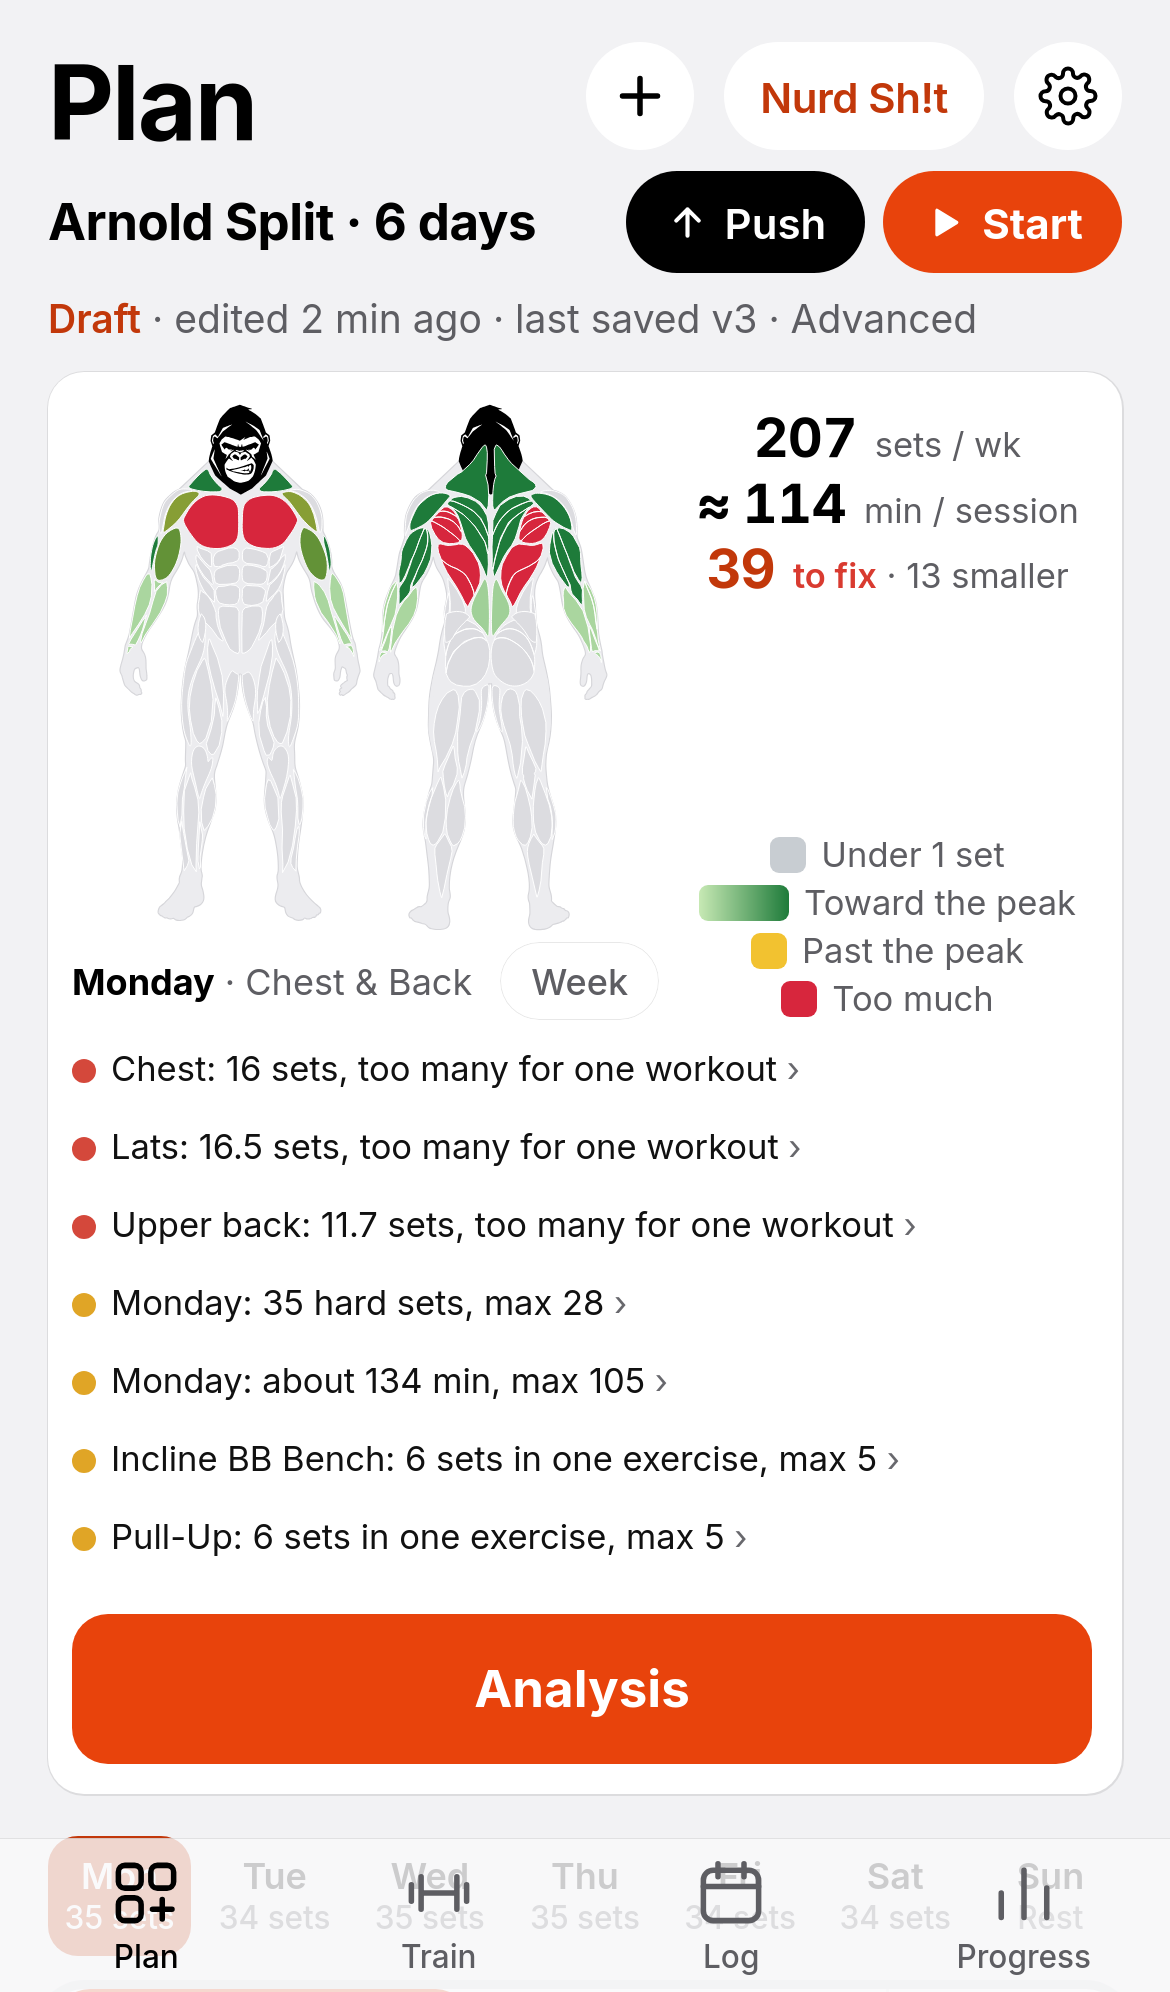
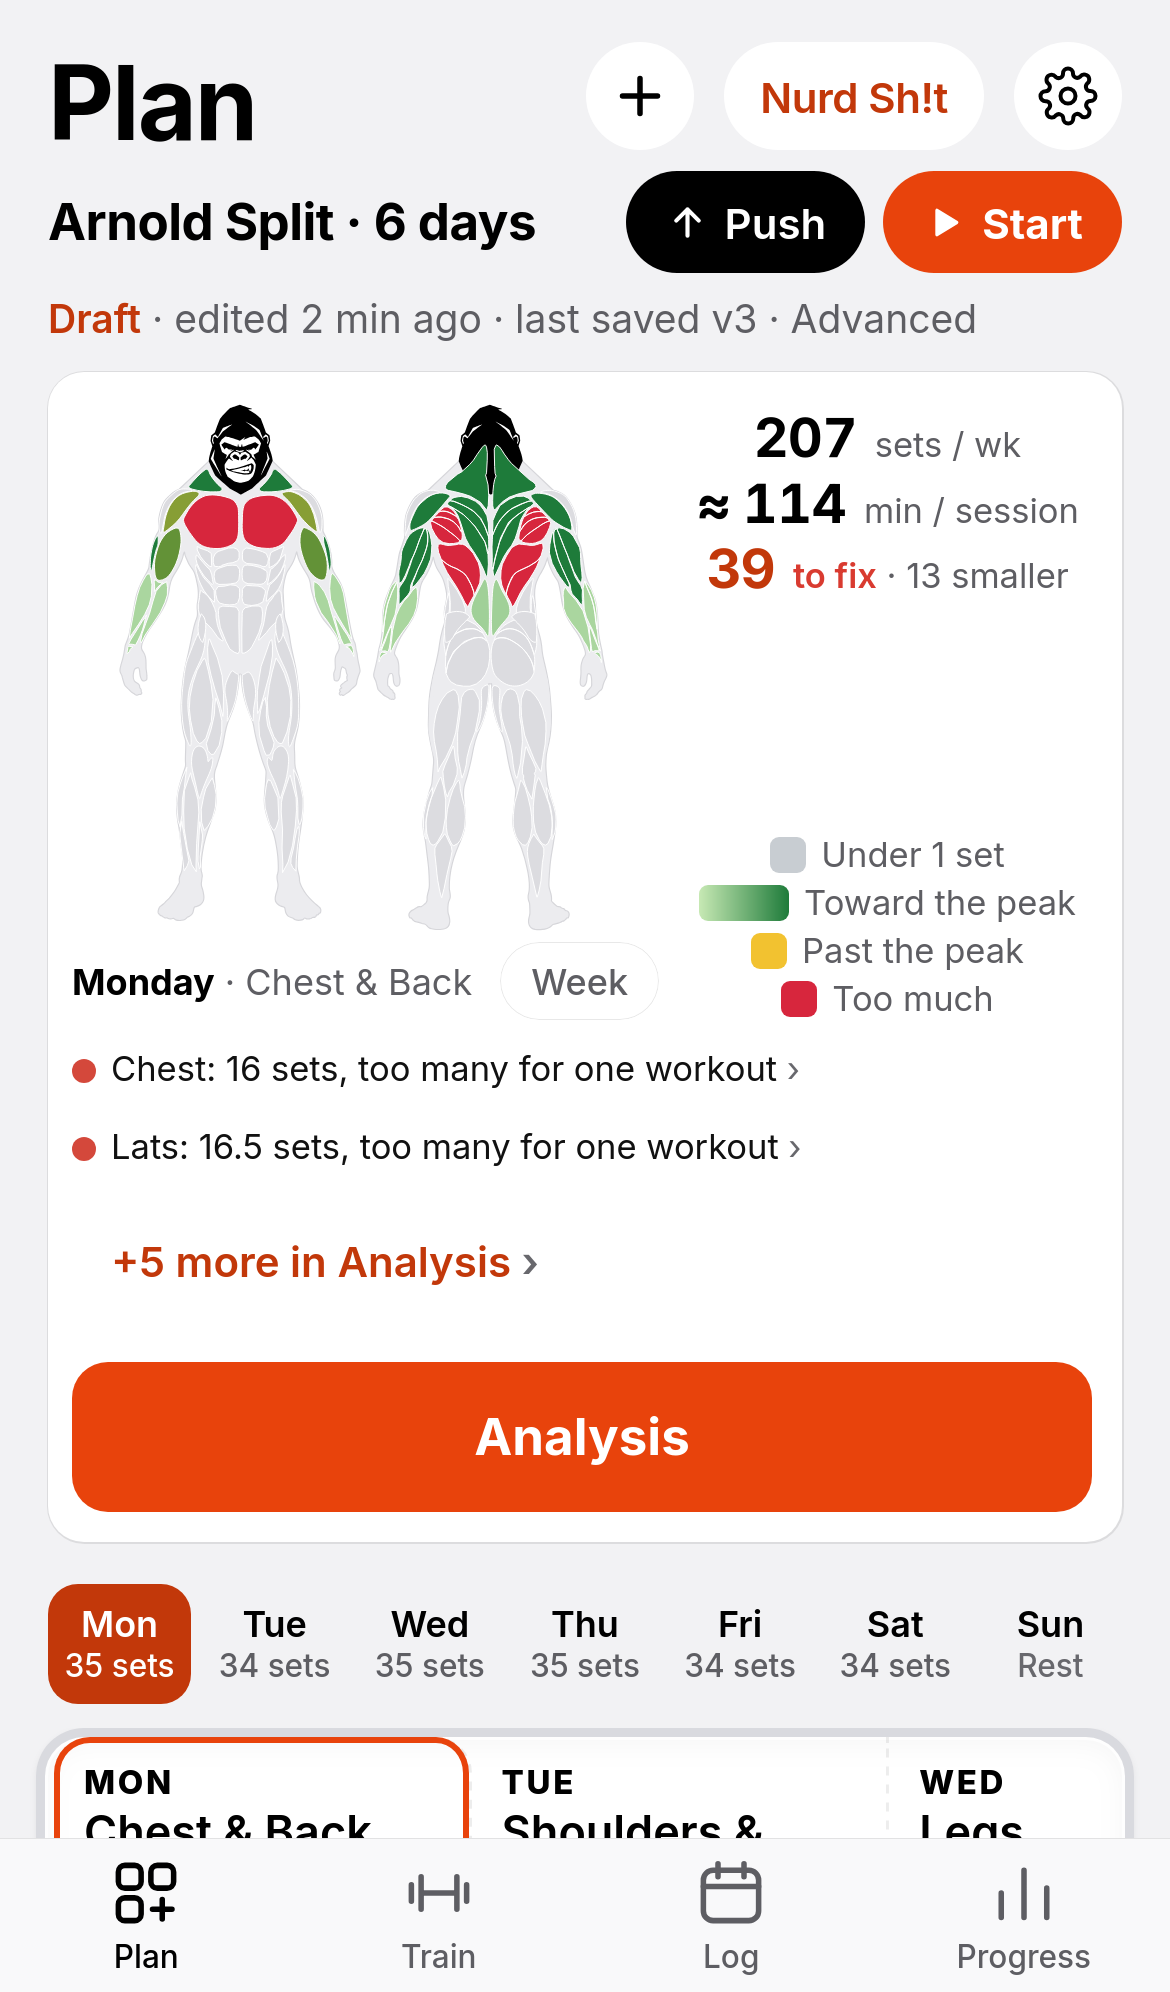
storyboard vol15 polish 2: Plan shows at most 2 significant flags per day / week, then '+N more in Analysis'; opaque tab and nav bars; Plan header stops sticking when too tall, so the day strip never sits under the tab bar; day header meta wraps

diff --git a/storyboard/board.js b/storyboard/board.js
@@ -77,7 +77,11 @@ function stripHtml(st){const {A,C,d}=st,avg=avgMins(d),fail=C.total-C.pass;
    <span class="ast"><b class="num" data-s="min">${d.length?'≈ '+avg:'–'}</b><small>min / session</small></span>
    ${openSlots()?`<span class="ast chk pend"><b class="num" data-s="checks">–</b><small>Fill slots to check</small></span>`:(()=>{const F=flags14(),n=F.filter(f=>f.sev>=2).length;return `<span class="ast chk ${n?'bad':'zero'}"><b class="num" data-s="checks">${n}</b><small>${n?`<em class="chkbad">to fix</em>`:'to fix'}${F.length-n?` · ${F.length-n} smaller`:''}</small></span>`})()}`}
 function dayMeta(day){const n=sum(day.tiles.map(t=>t.sets));return day.tiles.length?`${n} sets · ≈ ${MINS(day.tiles)} min`:''}
-function paintStats(days){days=days||B.days;const st=stats(days);const mp=$('#bmap');if(mp)mp.innerHTML=mapHtml(st,days);const lg=$('#bmleg');if(lg)lg.innerHTML=MLEG||'';const fw=$('#bmflw');if(fw)fw.innerHTML=MFL;const s=$('#astrip');if(s){s.innerHTML=stripHtml(st);}
+// vol15: the Plan header (map card + day strip) is sticky only while it fits comfortably above the tab bar; when it is taller
+// (large text, a day's flags) it scrolls with the page, so the day strip never sits under the tab bar.
+function fitStick(){const st=$('.bstick'),sc=st&&st.closest('.scroller');if(!st||!sc)return;const tb=$('.tabs'),th=tb&&getComputedStyle(tb).display!=='none'?tb.getBoundingClientRect().height:0;
+  const avail=sc.clientHeight-th;st.classList.toggle('nostick',st.offsetHeight>avail*0.6)}
+function paintStats(days){days=days||B.days;const st=stats(days);const mp=$('#bmap');if(mp)mp.innerHTML=mapHtml(st,days);const lg=$('#bmleg');if(lg)lg.innerHTML=MLEG||'';const fw=$('#bmflw');if(fw)fw.innerHTML=MFL;{const st=$('.bstick');if(st&&!st._ro&&window.ResizeObserver){st._ro=new ResizeObserver(()=>fitStick());st._ro.observe(st)}fitStick()}const s=$('#astrip');if(s){s.innerHTML=stripHtml(st);}
   days.forEach((d,i)=>{const n=sum(d.tiles.map(t=>t.sets));const b=$(`#dstrip [data-jump="${i}"] .dn`);if(b){b.textContent=stripTxt(d);b.parentNode.classList.toggle('rd',isRest(d))}
     const h=$(`.col[data-day="${d.day}"] .cm`);if(h)h.textContent=dayMeta(d);const w=$(`.col[data-day="${d.day}"] .dmxw`);if(w)w.outerHTML=dmxHtml(d)});
   $$('.col').forEach((c,i)=>{const d=days[i];if(!d)return;c.classList.toggle('restday',isRest(d));const l=$('.cl',c);if(l)l.textContent=dayLabel(d)}); // preview days mid-drag
@@ -224,16 +228,19 @@ const flagLine=(f,full)=>`<button class="fl1 s${f.sev}${f.grey?' calm':''}" data
 const fwf=f=>`${f.whyT?`<p class="flwhy"><b>Why:</b> ${f.whyT}</p>`:''}${f.fixT||f.fixText?`<p class="flfx"><b>Fix:</b> ${[f.fixT,f.fixText].filter(Boolean).join(' ')}</p>`:''}`;
 const flagRow=f=>`<details class="fl14 s${f.sev}${f.grey?' calm':''}" data-id="${escA(f.id)}"><summary><span class="fdot" aria-hidden="true"></span><span class="flt">${ftxt(f,f.what||f.text)}</span></summary>${fwfS(f)}${f.fix?`<button class="btn xs accent" data-b="flfix" data-id="${escA(f.id)}">${f.fix.label}</button>`:''}</details>`;
 // Plan: under each day = gauges + at most 2 significant flags (severity >= 2)
-function dmxHtml(d){if(!d.tiles.length)return `<div class="dmxw" data-day="${d.day}"></div>`;const F=FG()?FG().significant(flags14(),'day',d.day,2):[],L=window.WFATIGUE?WFATIGUE.level(RD(),tiles0(d),B.level):null;
-  return `<div class="dmxw" data-day="${d.day}">${L?`<button class="wfl wfl-${L.id}" data-b="dayview" data-day="${d.day}" aria-label="${WDL[DAYS.indexOf(d.day)]}: ${L.label} fatigue. Show this day on the map"><span class="wfk">Fatigue:</span> <b>${L.label}</b></button>`:''}${F.map(f=>flagCard(f)).join('')}</div>`}
+// vol14 rule (restated vol15): Plan shows at most 2 significant flags per day / for the week (FLAGS14.significant ranking), then one '+N more in Analysis ›' line
+const sigOf=(scope,day)=>{const A=flags14().filter(f=>f.plan&&f.scope===scope&&(day==null||f.day===day));return {top:FG().significant(flags14(),scope,day,2),more:Math.max(0,A.length-2)}};
+const moreLine=n=>n>0?`<button class="flmore" data-b="analysis">+${n} more in Analysis<span class="chev" aria-hidden="true"> ›</span></button>`:'';
+function dmxHtml(d){if(!d.tiles.length)return `<div class="dmxw" data-day="${d.day}"></div>`;const SG=FG()?sigOf('day',d.day):{top:[],more:0},F=SG.top,L=window.WFATIGUE?WFATIGUE.level(RD(),tiles0(d),B.level):null;
+  return `<div class="dmxw" data-day="${d.day}">${L?`<button class="wfl wfl-${L.id}" data-b="dayview" data-day="${d.day}" aria-label="${WDL[DAYS.indexOf(d.day)]}: ${L.label} fatigue. Show this day on the map"><span class="wfk">Fatigue:</span> <b>${L.label}</b></button>`:''}${F.map(f=>flagCard(f)).join('')}${moreLine(SG.more)}</div>`}
 const sugBtns=()=>{const E=effPlan(),P=pushPlan();return `<div class="sug14"><button class="btn sm grey s14" data-b="mkeff"${E.ops.length?'':' disabled'}><span>${(SBT().make_more_efficient||{}).label||'Make it more efficient'}</span>${E.ops.length?`<small class="num">−${E.removed} set${E.removed===1?'':'s'}</small>`:'<small>nothing to trim</small>'}</button><button class="btn sm grey s14" data-b="mkpush"${P.ops.length?'':' disabled'}><span>${(SBT().push_for_max_growth||{}).label||'Push for max growth'}</span>${P.ops.length?`<small class="num">+${P.added} set${P.added===1?'':'s'}</small>`:'<small>at the limits</small>'}</button></div>`};
 // session limit as INFO (rules session_efficiency display_severity 'info', display_limits): the most one workout can usefully take
 function limInfo(){const R=((RD().rules||{}).rules||[]).find(r=>r.id==='session_efficiency')||{},L=(R.display_limits||{})[B.level];if(!L)return '';const g={};for(const [m,v] of Object.entries(L))(g[v]=g[v]||[]).push(MLB(m).toLowerCase());
   const ks=Object.keys(g).map(Number).sort((a,b)=>b-a),big=ks[0];return `<p class="foot lim14"><b>Info:</b> one workout can usefully take about ${big} hard sets for most muscles${ks.slice(1).map(k=>`, ${k} for ${g[k].join(', ')}`).join('')}. Push for max growth stops there.</p>`}
 // Plan: the week card (replaces the vol11-13 Impact card): at most 2 significant weekly flags + the two suggestion buttons
-function impHtml(){if(!FG())return '';const W=FG().significant(flags14(),'week',null,2);
+function impHtml(){if(!FG())return '';const SW=sigOf('week',null),W=SW.top;
   return `<div class="imph"><b>This week</b><span class="evl" data-ev="modeled">Modeled</span></div>
-   <div class="wk14">${W.length?W.map(f=>flagLine(f,1)).join(''):`<p class="sub">${(()=>{const n=flags14().filter(f=>f.scope==='day'&&f.sev>=2).length;return n?`Nothing big for the week as a whole. ${n} fix${n===1?' is':'es are'} under the days above.`:'Nothing significant this week.'})()}</p>`}</div>${sugBtns()}
+   <div class="wk14">${W.length?W.map(f=>flagLine(f,1)).join('')+moreLine(SW.more):`<p class="sub">${(()=>{const n=flags14().filter(f=>f.scope==='day'&&f.sev>=2).length;return n?`Nothing big for the week as a whole. ${n} fix${n===1?' is':'es are'} under the days above.`:'Nothing significant this week.'})()}</p>`}</div>${sugBtns()}
    <p class="foot wkfoot">Smaller items stay in <button class="lnk" data-b="analysis">Analysis ›</button></p>`}
 function paintImpact(){const el=$('#impc');if(el)el.innerHTML=impHtml()}
 // vol15: Plan map. Weekly by default (MAPRAMP weekly ramp). Tapping a day shows that day (daily ramp) with its flags underneath;
@@ -243,8 +250,8 @@ const dayFills=d=>d&&d.tiles.length?MAPRAMP.fills(MAPRAMP.daily(RD(),tiles0(d)))
 let MFL='';   // vol15 polish: the day's flags render full width under the map card row (#bmflw)
 function mapHtml(st,days){const day=MAPV.mode==='day',i=MAPV.day,d=days[i];const vm=day?dayFills(d):wkFills(st.A);
   const cap=day?`<b>${WDL[i]}</b> · ${isRest(d)?'Rest':dayLabel(d)} <button class="chip wkchip" data-b="mapweek" aria-label="Back to the week">Week</button>`:'<b>This week</b>';MLEG=MAPRAMP.legend(day?'day':'week');
-  const F=day&&d&&d.tiles.length&&FG()?flags14().filter(f=>f.scope==='day'&&f.day===d.day&&f.sev>=2).sort(FG().ord):[];
-  const h=`<div class="bmaps" data-mode="${day?'day':'week'}" data-day="${d?d.day:''}">${X.map('front',vm,{crop:1})}${X.map('back',vm,{crop:1})}</div><div class="bmcap" id="bmcap">${cap}</div>`;MFL=day?`<div class="bmfl">${F.length?F.map(flagCard).join(''):'<p class="sub">Nothing to fix on this day.</p>'}</div>`:'';return h}
+  const SD=day&&d&&d.tiles.length&&FG()?sigOf('day',d.day):{top:[],more:0},F=SD.top;
+  const h=`<div class="bmaps" data-mode="${day?'day':'week'}" data-day="${d?d.day:''}">${X.map('front',vm,{crop:1})}${X.map('back',vm,{crop:1})}</div><div class="bmcap" id="bmcap">${cap}</div>`;MFL=day?`<div class="bmfl">${F.length?F.map(flagCard).join('')+moreLine(SD.more):'<p class="sub">Nothing to fix on this day.</p>'}</div>`:'';return h}
 function toggleDay(i){if(MAPV.mode==='day'&&MAPV.day===i){MAPV.mode='week'}else{MAPV.mode='day';MAPV.day=i}$$('#dstrip button').forEach((b,k)=>{const on=MAPV.mode==='day'&&k===MAPV.day;b.classList.toggle('sel',on);b.setAttribute('aria-pressed',String(on))});$$('.col').forEach((c,k)=>c.classList.toggle('dsel',MAPV.mode==='day'&&k===MAPV.day));paintStats()}
 // one flag, tap for the fix
 let FLS=null;function flagSheet(id){const f=flagById(id);if(!f)return;if(FLS&&!FLS.closed)FLS.close();

diff --git a/storyboard/tokens.css b/storyboard/tokens.css
@@ -20,7 +20,7 @@
   --line:rgba(0,0,0,.09);/* hairlines */
   --text-2:#5E5E63;      /* secondary text (vol15: >= 4.5:1 on paper, bg and fill) */
   --text-3:#68686D;      /* tertiary, placeholders, auto-filled values (vol15: >= 4.5:1 on paper, bg and fill) */
-  --chrome:rgba(249,249,250,.82); /* translucent bars (tab bar, nav) */
+  --chrome:#F9F9FA; /* vol15: bars (tab bar, nav) are opaque so content scrolls UNDER them, never shows through */
 
   /* Functional only (never brand): destructive actions */
   --danger:#E5242B;
@@ -89,7 +89,7 @@
    (localStorage apechit.sb.theme: system | light | dark). The two blocks below carry the SAME values (test darkTokensSame). */
 html[data-theme=dark]{
   --ink:#F2F2F4; --paper:#1C1C1E; --bg:#000; --fill:#2C2C2E; --line:rgba(255,255,255,.12);
-  --text-2:#A1A1A8; --text-3:#8E8E93; --chrome:rgba(24,24,26,.82);
+  --text-2:#A1A1A8; --text-3:#8E8E93; --chrome:#18181A;
   --accent:#F0541A; --accent-press:#FF8257; --accent-tint:#3A1C10; --accent-text:#FF6A33; --accent-strong:#C2380A;
   --danger:#FF453A;
   --vol-under:#5D7189; --vol-amber:#F2B23F; --vol-red:#FF5A4E; --vol-in-range:#4CC285;
@@ -119,7 +119,7 @@ html[data-theme=dark]{
 }
 @media (prefers-color-scheme:dark){html:not([data-theme=light]){
   --ink:#F2F2F4; --paper:#1C1C1E; --bg:#000; --fill:#2C2C2E; --line:rgba(255,255,255,.12);
-  --text-2:#A1A1A8; --text-3:#8E8E93; --chrome:rgba(24,24,26,.82);
+  --text-2:#A1A1A8; --text-3:#8E8E93; --chrome:#18181A;
   --accent:#F0541A; --accent-press:#FF8257; --accent-tint:#3A1C10; --accent-text:#FF6A33; --accent-strong:#C2380A;
   --danger:#FF453A;
   --vol-under:#5D7189; --vol-amber:#F2B23F; --vol-red:#FF5A4E; --vol-in-range:#4CC285;

diff --git a/storyboard/sb.css b/storyboard/sb.css
@@ -1860,3 +1860,7 @@ svg.pwbars .pwbl{font-size:10px;fill:var(--text-2)}
 .ast.chk{color:var(--ink)}.ast.chk.bad b{color:var(--accent-text)}.ast.chk.zero b{color:var(--ink)}
 .bsum .bmflw{grid-column:1/-1;min-width:0}.bsum .bmflw:empty{display:none}.bsum .bmflw .bmfl{margin-top:0}
 .bsum .anbtn{grid-column:1/-1;width:100%}
+.flmore{display:block;width:100%;text-align:left;border:0;background:none;padding:3px 0 3px 13px;font:inherit;font-size:11.5px;font-weight:600;line-height:1.25;color:var(--accent-text);cursor:pointer;min-height:24px}
+.bmfl .flmore,.wk14 .flmore{font-size:14px;min-height:44px;padding-left:13px}
+.bstick.nostick{position:relative;top:auto}
+.col header .cm{white-space:normal}
